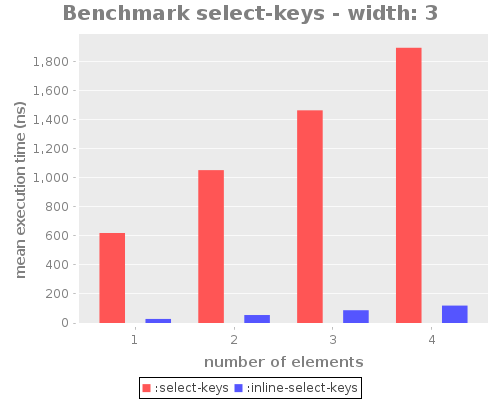
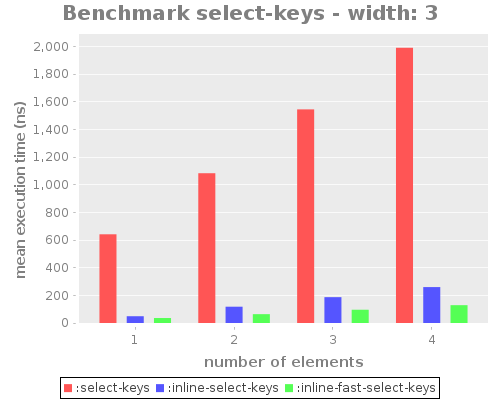
Add new select-keys benchmarks results

diff --git a/doc/results.md b/doc/results.md
@@ -299,7 +299,9 @@ for deeper maps, about ~25ns/key.
 
 #### Test details
 
-`select-keys` was tested against an inlined implementation.
+`select-keys` was tested against two inlined implementations:
+- correct and slower implementation.
+- quicker and dirty implementation.
 
 #### Results
 
